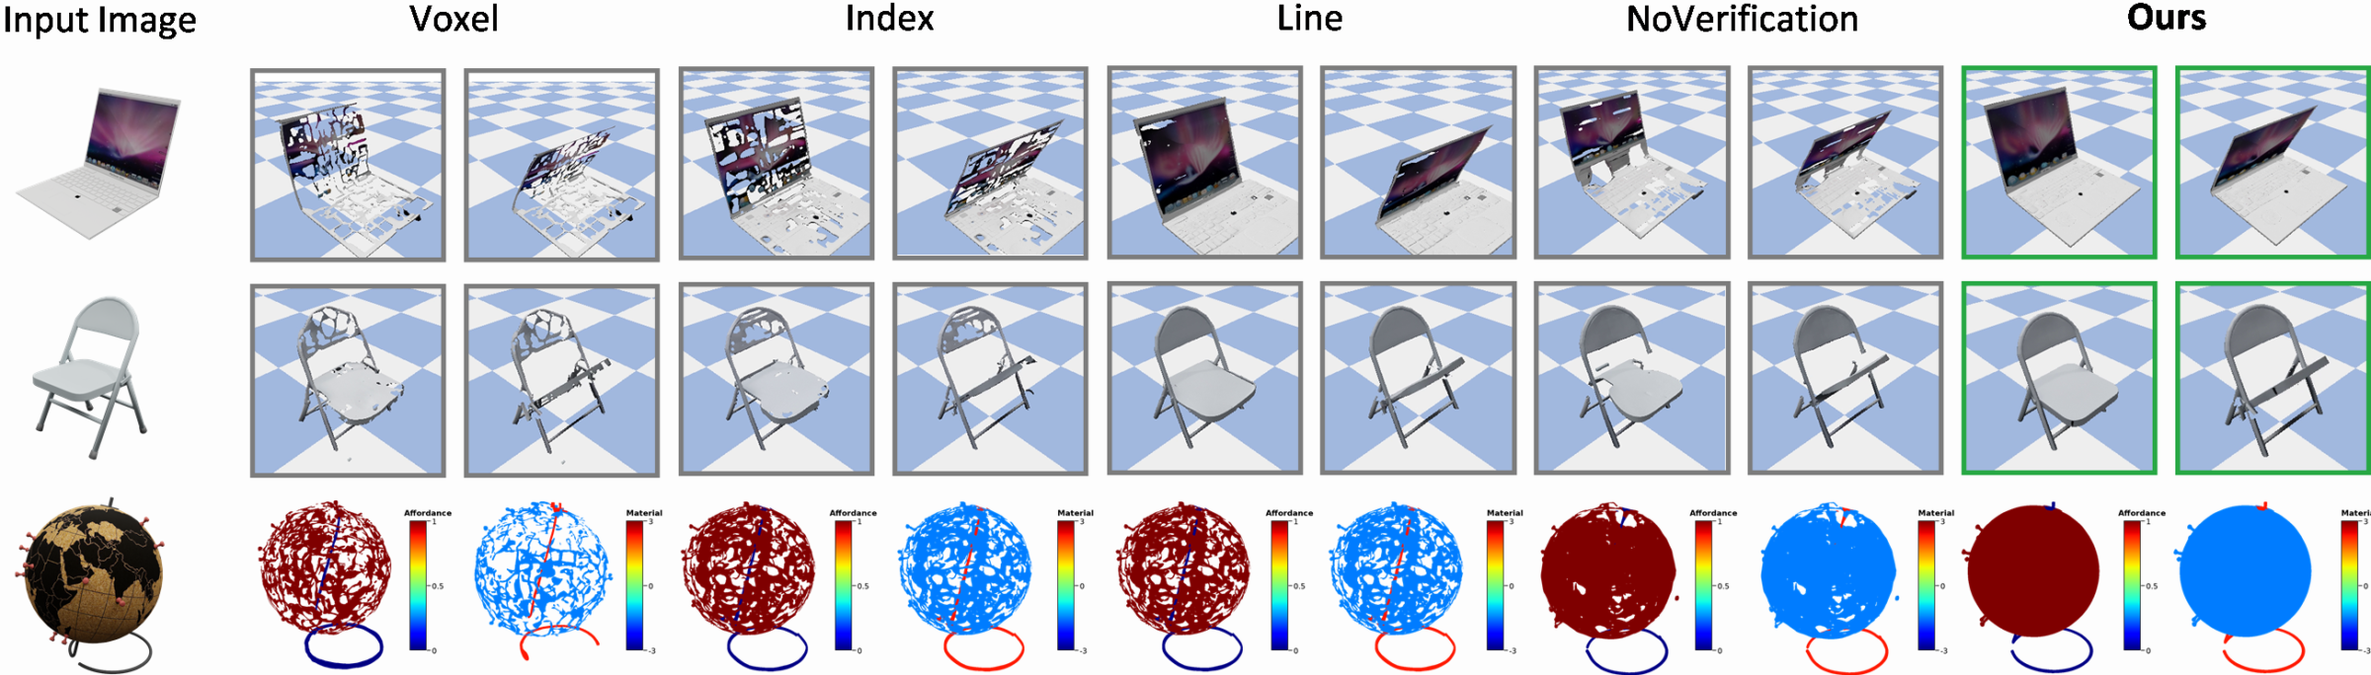
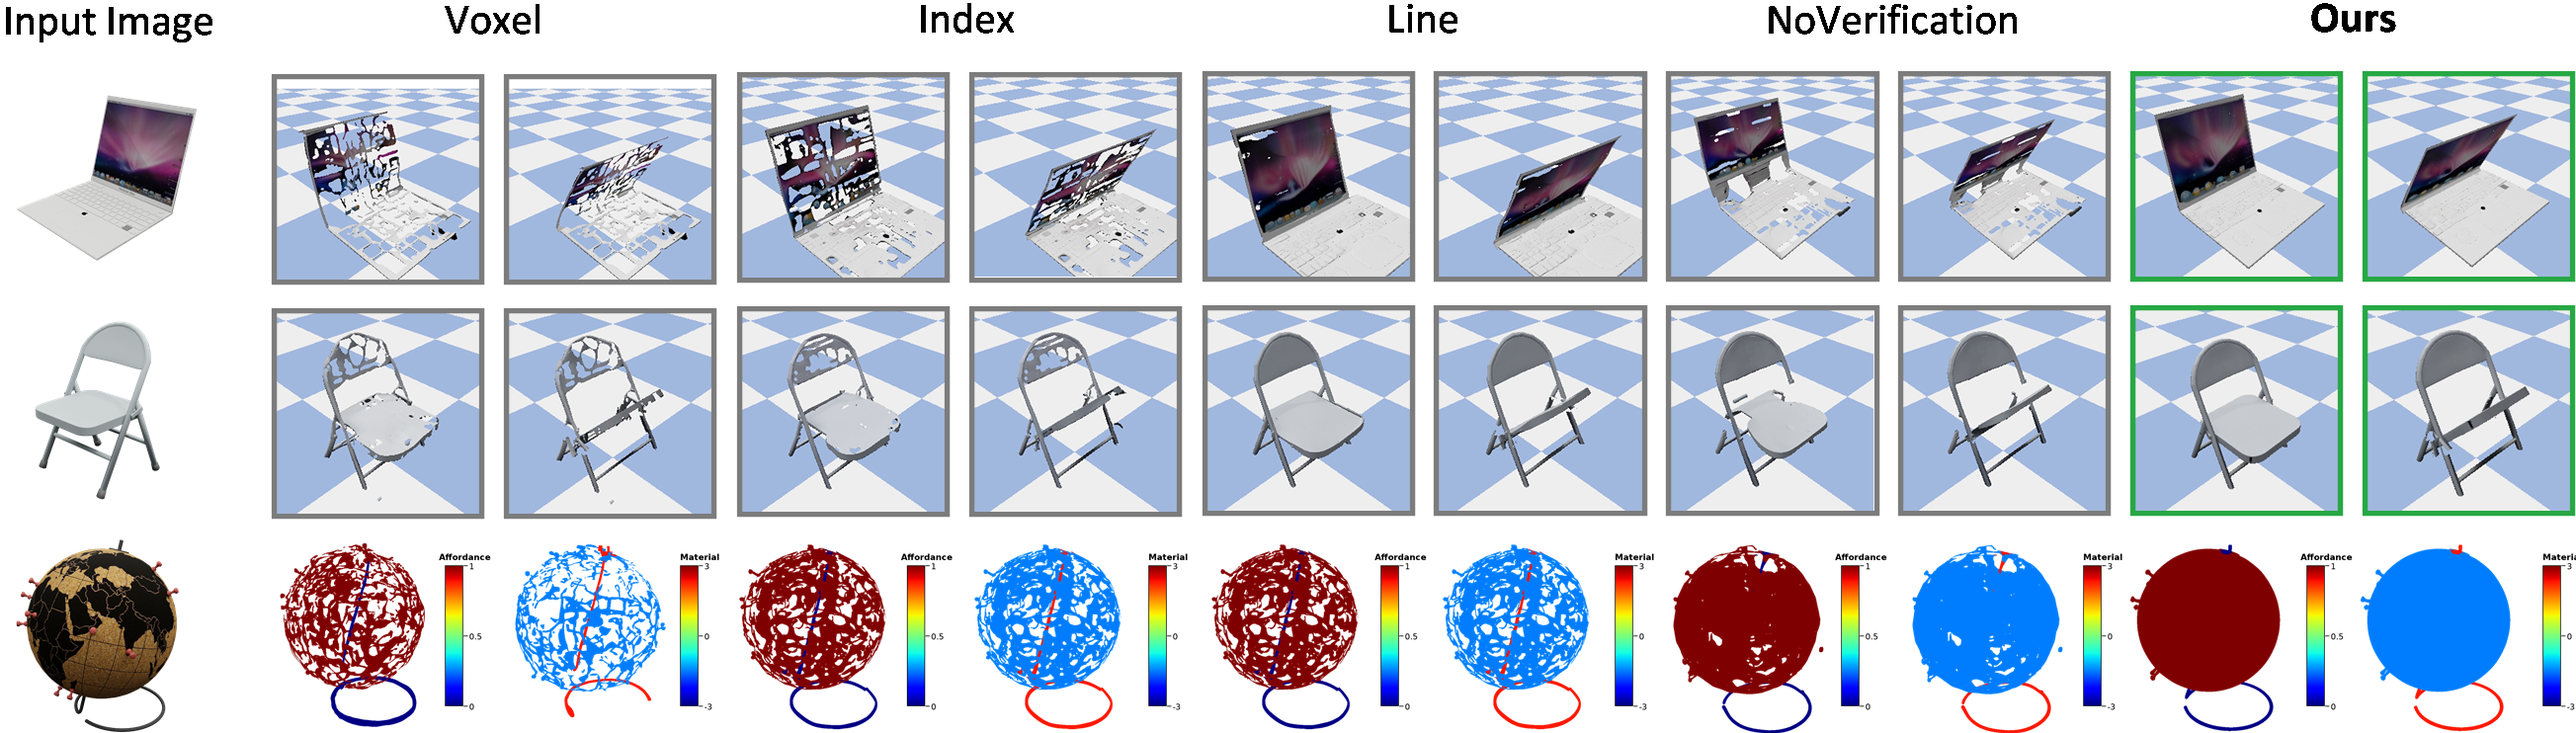
update

diff --git a/README.md b/README.md
@@ -90,6 +90,40 @@ The selected part occupancies are merged and passed to the conditional flow
 decoder. Part labels are then transferred from the verified coarse geometry to
 the refined mesh before URDF/XML construction.
 
+## Qualitative results
+
+CoVeTwin produces complete, high-fidelity articulated assets across synthetic
+and real-world inputs. The comparison below highlights geometry completeness,
+appearance fidelity and articulation quality against representative baselines.
+
+<div align="center">
+<img src="img/covetwin/lab1.png" width="100%" alt="Qualitative reconstruction comparison across articulated-asset generation methods">
+<br>
+<em>Single-image reconstruction results for URDF-Anything, Articulate-Anything,
+PhysX-3D, PhysX-Anything and CoVeTwin.</em>
+</div>
+
+The predicted meshes also support part-level physical-property visualization.
+The heatmaps retain the detailed decoded surfaces rather than displaying only
+the coarse voxel representation.
+
+<div align="center">
+<img src="img/covetwin/lab3.png" width="92%" alt="Part-level physical-property heatmap comparison">
+<br>
+<em>Physical-property heatmaps produced by PhysX-3D, PhysX-Anything and
+CoVeTwin.</em>
+</div>
+
+Finally, the exported articulated assets can be loaded into a physics engine
+for interaction between independently generated objects.
+
+<div align="center">
+<img src="img/covetwin/lab4.png" width="100%" alt="Physics-engine interaction comparison across generated articulated assets">
+<br>
+<em>Qualitative physics-engine interaction results across the evaluated
+methods.</em>
+</div>
+
 ## Code structure
 
 | Component | Implementation |
